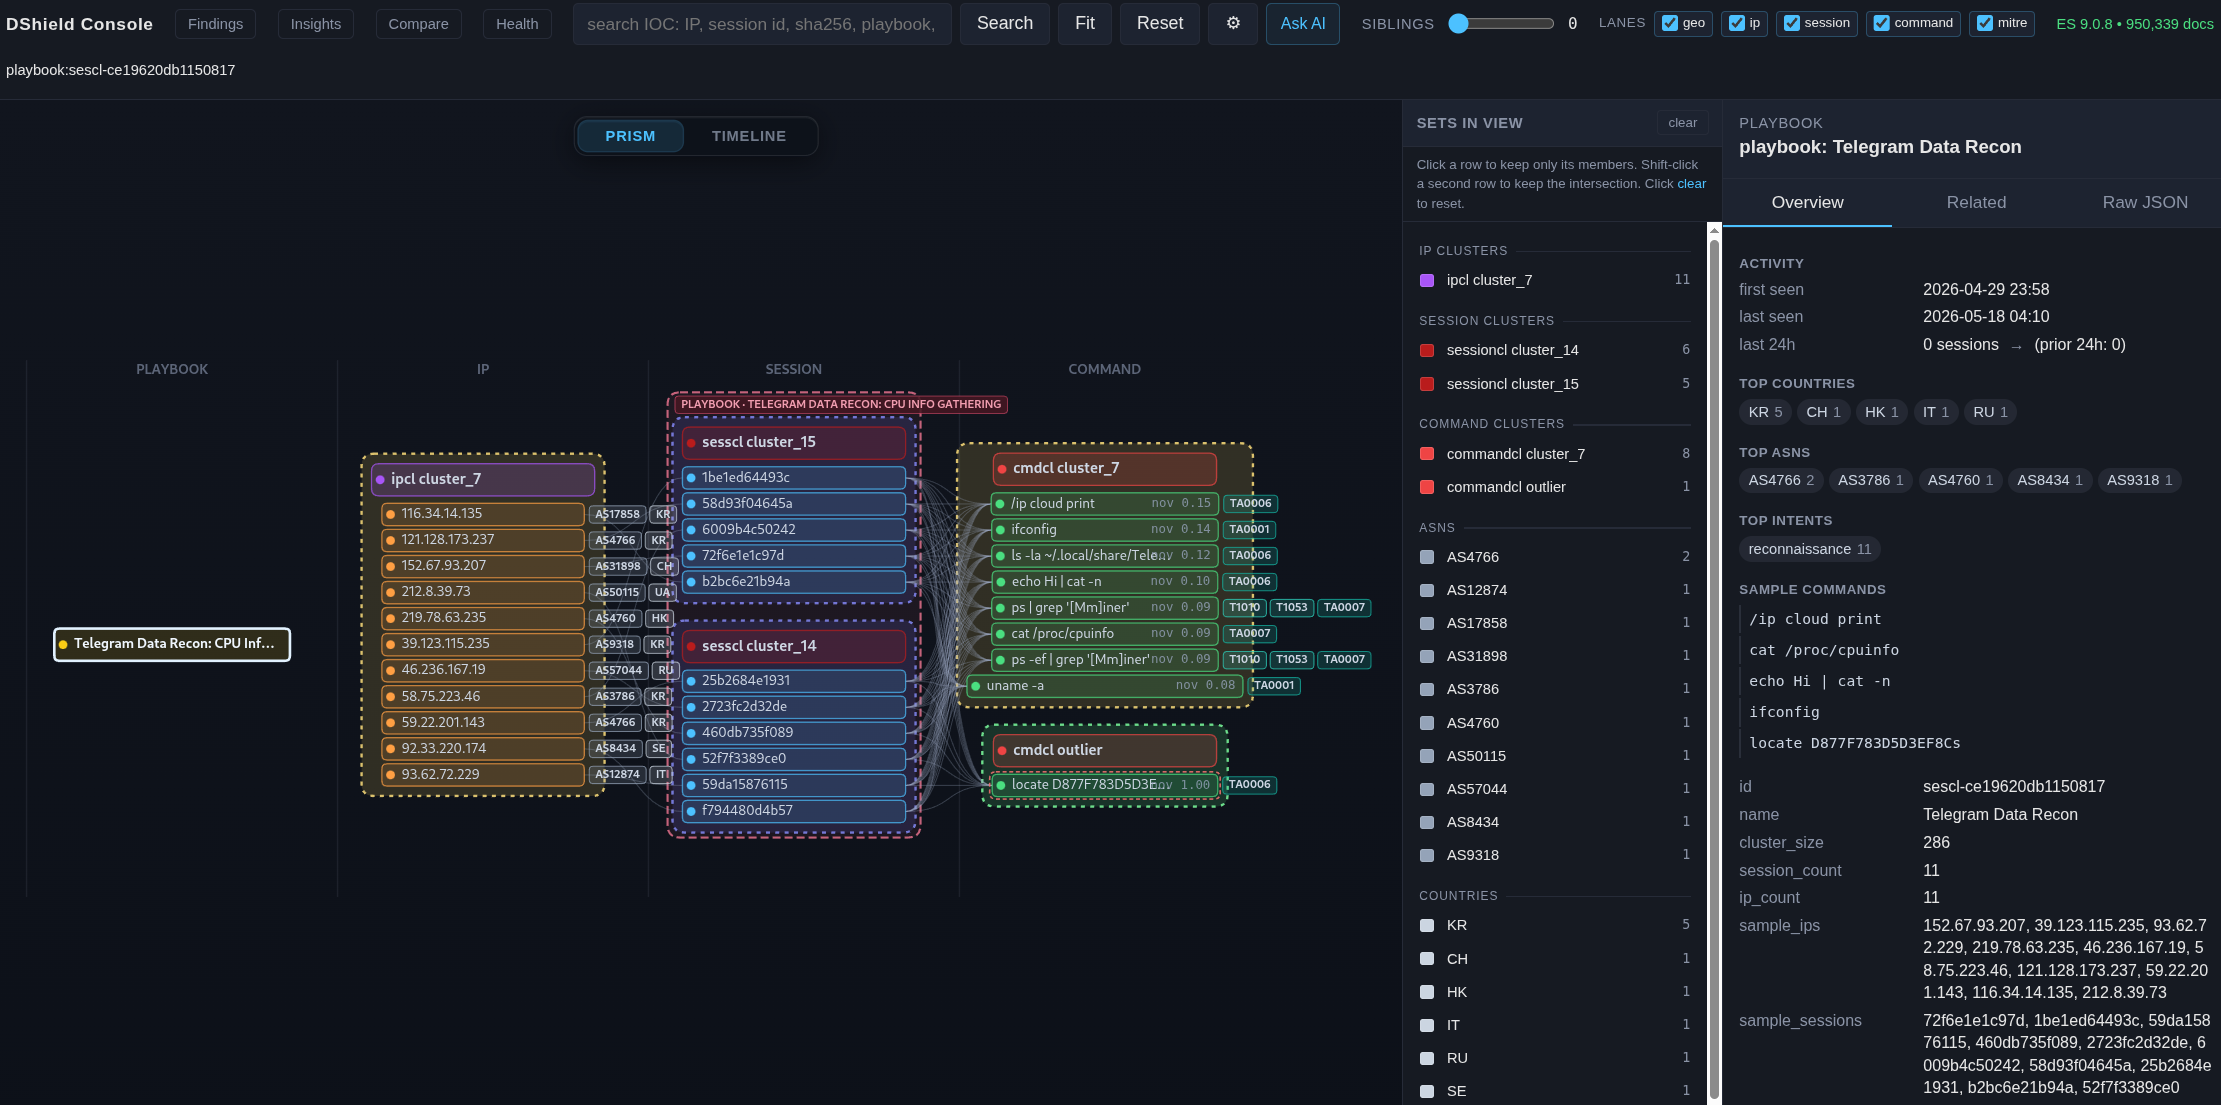
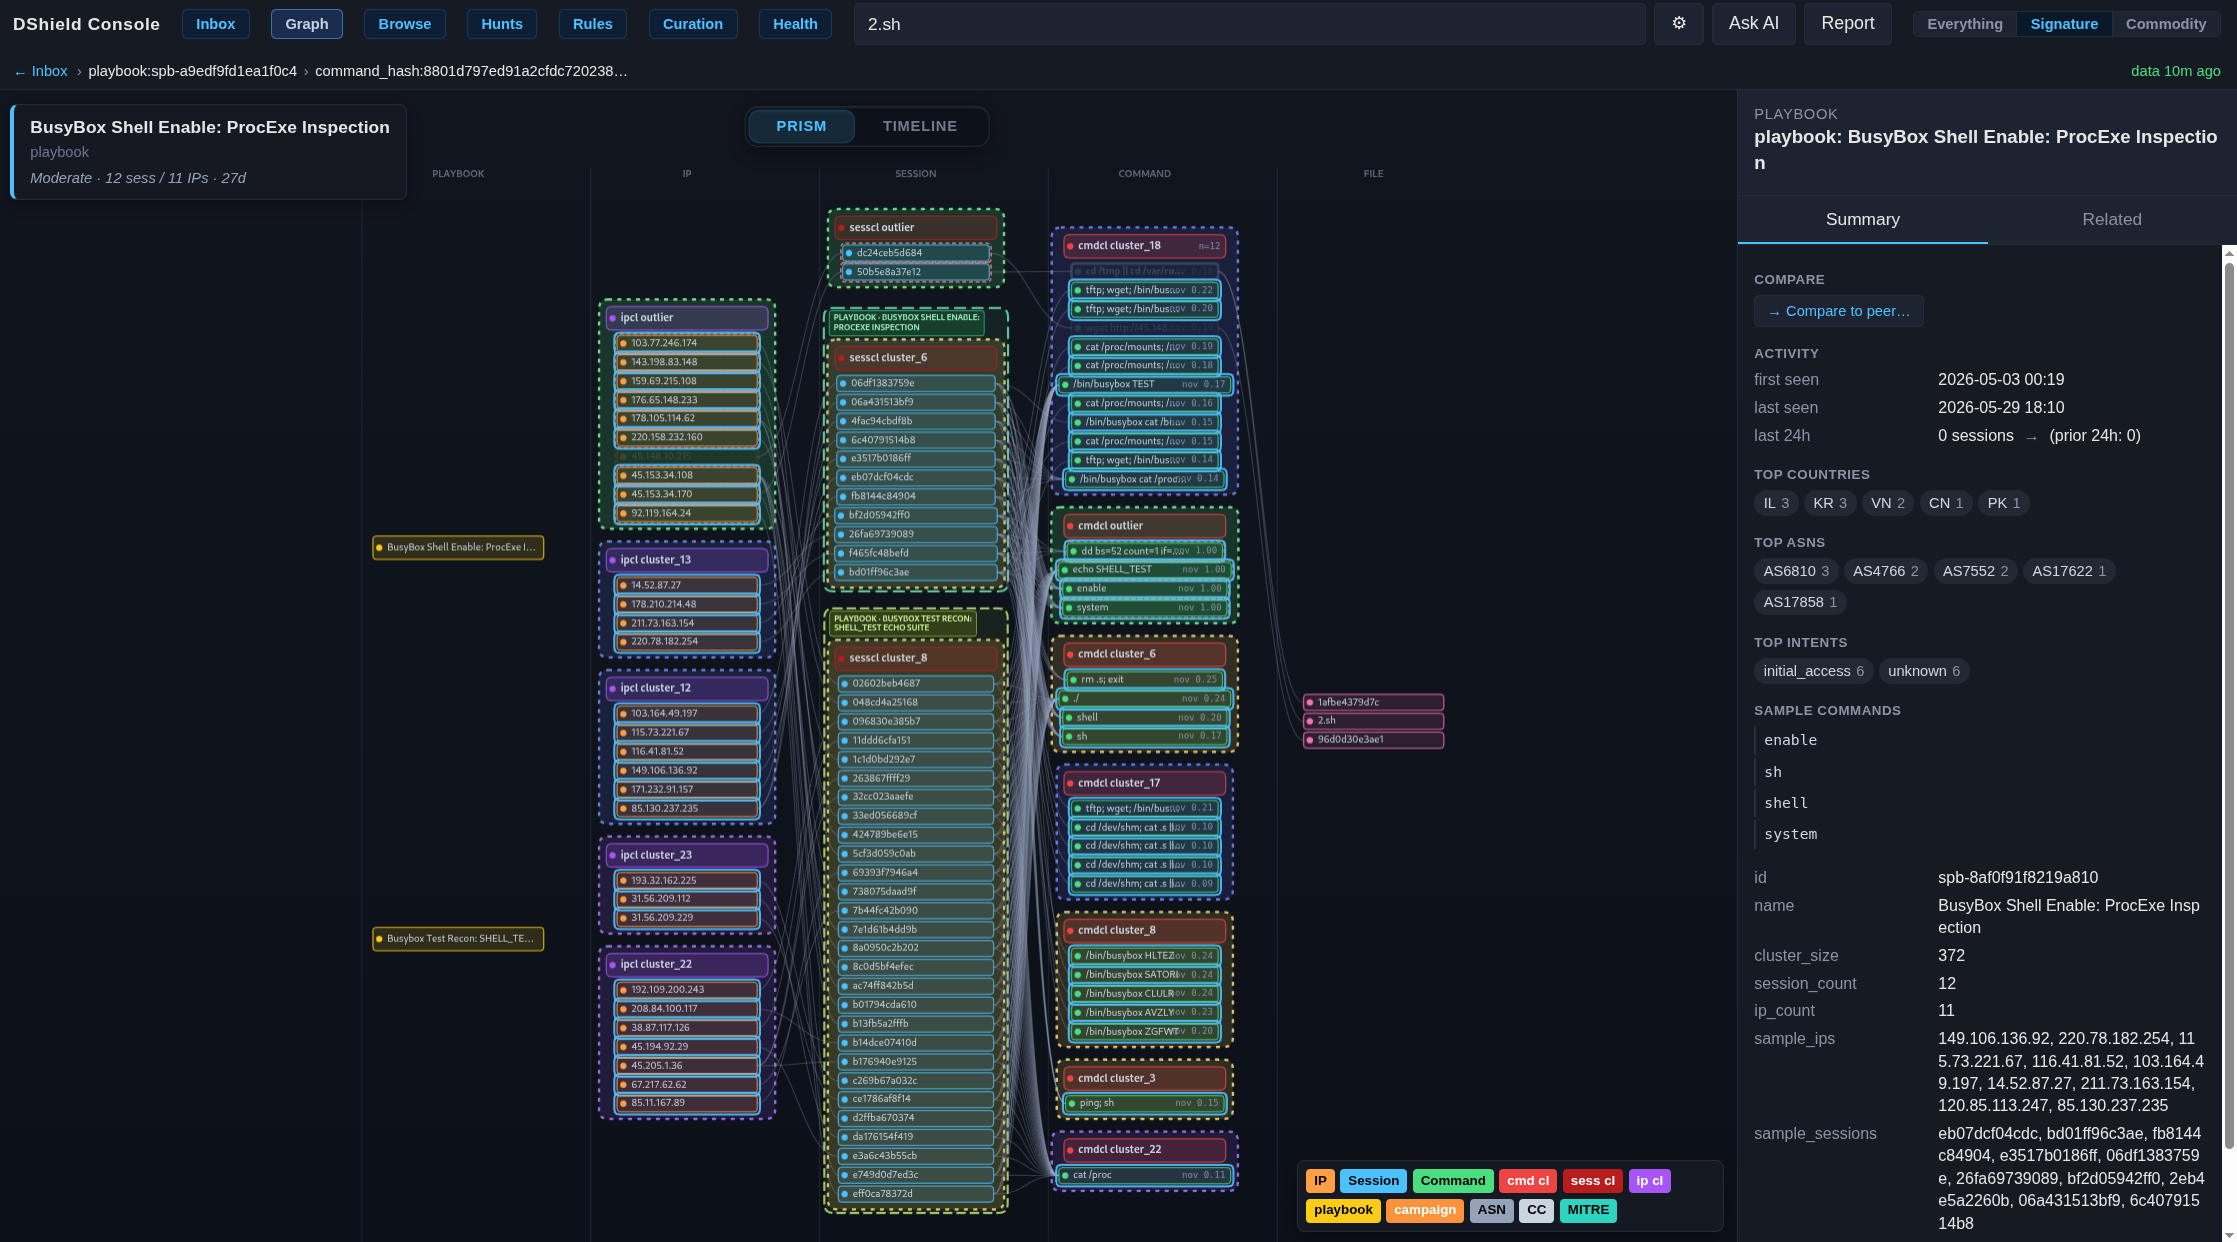
chore(readme): Updated readme

diff --git a/README.md b/README.md
@@ -10,7 +10,8 @@
   <a href="LICENSE"><img src="https://img.shields.io/badge/license-GPL--3.0-blue.svg" alt="License: GPL-3.0"></a>
   <a href="https://www.python.org/"><img src="https://img.shields.io/badge/python-3.11%2B-blue.svg" alt="Python 3.11+"></a>
   <a href="https://github.com/tonysperez/dshield_prism/commits/main"><img src="https://img.shields.io/github/last-commit/tonysperez/dshield_prism" alt="Last commit"></a>
-  <a href="https://github.com/tonysperez/dshield_prism/actions/workflows/ci.yml"><img src="https://github.com/tonysperez/dshield_prism/actions/workflows/ci.yml/badge.svg" alt="CI"></a>
+  <a href="https://github.com/tonysperez/dshield_prism/actions/workflows/ci.yml"><img src="https://github.com/tonysperez/dshield_prism/actions/workflows/ci.yml/badge.svg" alt="Lint"></a>
+  <a href="https://github.com/tonysperez/dshield_prism/actions/workflows/eval.yml"><img src="https://github.com/tonysperez/dshield_prism/actions/workflows/eval.yml/badge.svg" alt="Clustering Quality"></a>
 </p>
 
 <p align="center">
@@ -32,7 +33,7 @@ Behavioral campaign mining surfaces the chattr+cron *subset* of a broader shared
 - **SSH Key Injection with chattr Locking** (T1098.004, T1222.002) — installs an `authorized_keys` entry, then sets the immutable bit on `.ssh` so the key can't be removed without first unsetting it.
 - **SSH Key Installer: Crontab list** (T1098.004, T1222.002, T1053.003) — installs the same `authorized_keys` entry, plus reconnaissance and `crontab -l` for cron-based re-installation.
 
-The combination is defense-in-depth persistence: install the key, lock it with chattr, re-install via cron if it disappears. Two campaign axes (behavior and infrastructure) corroborate the same finding from different angles: the infra axis names the shared-key pool; the behavior axis names the chattr+cron sub-population *inside* that pool. Frequent-itemset mining (FP-growth) over each IP's playbook set is what surfaces *"these 73 IPs run this exact combination"* — and the playbooks themselves only exist because session embeddings clustered into stable named behaviors.
+The combination is defense-in-depth persistence: install the key, lock it with chattr, re-install via cron if it disappears. Two campaign axes (behavior and infrastructure) corroborate the same finding from different angles: the infra axis names the shared-key pool; the behavior axis names the chattr+cron sub-population *inside* that pool. Frequent-itemset mining (FP-growth) over each IP's playbook set is what surfaces *"these 73 IPs run this exact combination"* — and the playbooks themselves only exist because session embeddings clustered into stable named behaviors. That manual two-axis corroboration is now detected automatically: when a behavior campaign and an infrastructure campaign overlap, Prism promotes the intersection to an **Operation** (`cmp-ope-…`).
 
 ## What the clustering actually does — measured
 
@@ -63,9 +64,9 @@ The same invariance shows up over shell-wrapping: `echo "…" | sh` and the bare
 
 **See behavior, not individual actions.** Every unique command, session, and source IP becomes a behavioral fingerprint with a semantic vector, intent, extracted IOCs, and MITRE TTP IDs.
 
-**Grounded in threat intel.** Artifacts (IP and URL today; hash and domain planned) are checked against freely available CTI feeds. A consensus engine collates verdicts and feeds them back into the pipeline: known-good scanners get quieted, commodity-malicious IPs get cheaper triage.
+**Grounded in threat intel.** Artifacts (IP, URL, and file hash today; domain planned) are checked against freely available CTI feeds. A consensus engine collates verdicts and feeds them back into the pipeline: known-good scanners get quieted, commodity-malicious IPs get cheaper triage. Novelty is scored twice: against the sensor's own corpus *and* against an external reference corpus of documented adversary tradecraft (Atomic Red Team).
 
-**Watch behavior change over time.** Recurring activity gets named as a playbook; coordinated multi-session activity gets grouped as a campaign. Both keep stable identities across re-analysis runs, so drift and emergence surface as findings in a curated inbox with a confirm/reject workflow that turns analyst decisions into a growing knowledge base.
+**Watch behavior change over time.** Recurring activity gets named as a playbook; coordinated multi-session activity gets grouped as a campaign — by shared behavior, by shared infrastructure, or (when those two overlap) as an Operation. All keep stable identities across re-analysis runs, so drift and emergence surface as findings in a curated inbox with a confirm/reject workflow that turns analyst decisions into a growing knowledge base.
 
 **Private by default.** A local LLM does the cognitive work; cloud escalation is budget-capped and opt-in; CTI feeds are integrated but disabled by default. Nothing about your honeypot traffic leaves your environment unless you say so.
 
@@ -123,17 +124,23 @@ A local LLM + embedding model drives per-command enrichment, with optional escal
 
 ## Console
 
+Seven pages, one analyst workflow: **Inbox · Graph · Browse · Hunts · Rules · Curation · Health**.
+
 **Findings inbox.** Every drift, novel pattern, and coverage gap surfaces here. The facet rail narrows on score, age, IP-count band, intent, or intel verdict; status flows from new → ack → confirmed as the analyst works the queue.
 
-<p align="center"><img src=".github/screenshots/findings.png" alt="Findings inbox with facet rail" width="900"></p>
+<p align="center"><img src=".github/screenshots/inbox.png" alt="Findings inbox with facet rail" width="900"></p>
 
-**Investigation pivot.** Click any IOC and follow it through a graph of its behavioral neighborhood — linked IP clusters, session clusters, and constituent commands, with a side panel of overview details for whatever's selected.
+**Investigation pivot.** Click any IOC and follow it through a graph of its behavioral neighborhood — linked IP clusters, session clusters, and constituent commands, with a side panel of overview details for whatever's selected. Right from that detail pane you can pick a peer for an **inline comparison** that shows what makes two clusters, playbooks, or campaigns separate: cosine similarity vs. the merge threshold, scalar-by-scalar deltas, and a plain-language explanation alongside the math.
 
 <p align="center"><img src=".github/screenshots/graph.png" alt="Graph-based investigation pivot" width="900"></p>
 
-**Cluster comparison.** Shows what makes two clusters separate, mathematically: cosine similarity vs. the merge threshold, scalar-by-scalar deltas, and a plain-language explanation generated alongside the technical detail.
+**Report tool.** Gather every in-view artifact — IPs, commands, credentials, file hashes, MITRE chain, session sequences — into a copy-ready writeup, with IOCs defanged by default and a choice of plain / markdown / CSV / JSON output.
 
-<p align="center"><img src=".github/screenshots/compare.png" alt="Cluster comparison view" width="900"></p>
+<p align="center"><img src=".github/screenshots/report.png" alt="Report tool with category and format options" width="900"></p>
+
+**Hunts.** Hypothesis-driven, YAML-defined session filters (AND-combined) that turn a hunch — "sessions that touched `/proc/cpuinfo` and were classified as non-recon intent" — into a repeatable, run-now finding stream. Ships with a preconfigured set. A parallel **Tradecraft Matches** view ranks sessions by how closely they mirror documented adversary tradecraft from the external reference corpus (Atomic Red Team).
+
+<p align="center"><img src=".github/screenshots/hunt.png" alt="Hypothesis-driven hunts" width="900"></p>
 
 ## Why I built this
 
